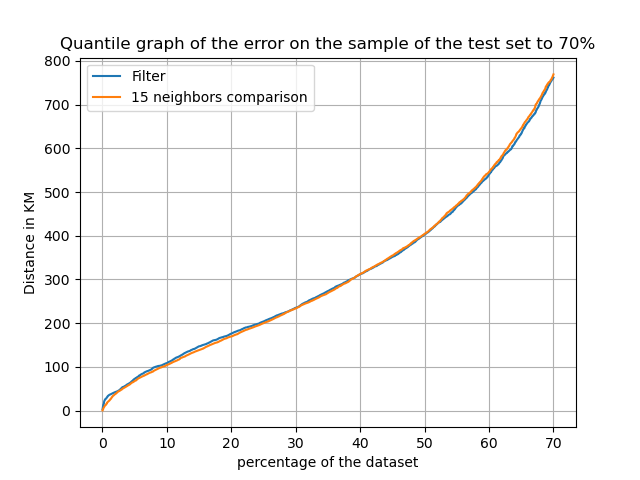
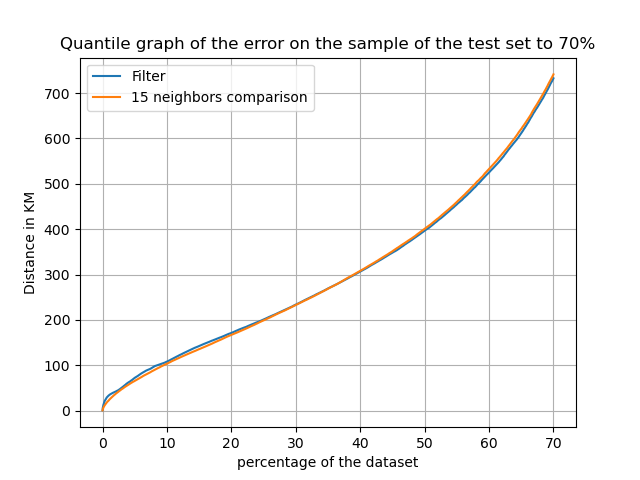
run test on pipeline

Changed region(s): [[0.0625, 0.1562, 0.9062, 0.875], [0.0625, 0.1875, 0.125, 0.25], [0.0625, 0.0938, 0.125, 0.1562]]

diff --git a/Pipeline.py b/Pipeline.py
@@ -4,6 +4,7 @@ from PIL.Image import Image
 from lightly.transforms import MoCoV2Transform
 from torch import nn
 from torchvision.transforms import transforms
+from torchvision.transforms import ToPILImage
 
 from feature_extraction.feature_extractor import FeatureExtractor
 from filter_refinement.Probabilities_refinement.model.RefinementModel import RefinementModel, refine_probability_list
@@ -19,7 +20,7 @@ class Atlas:
         self.embedder = Embedder(net)
         self.embedder.load_csv(moco_model_weights)
         self.refiner = RefinementModel()
-        self.refiner.load(torch.load(refinements_model_weights))
+        self.refiner.load_state_dict(torch.load(refinements_model_weights))
         self.moco_transform = torchvision.transforms.Compose([transforms.Resize((224, 224)),
                                                               MoCoV2Transform(input_size=224, cj_prob=0.2,
                                                                               cj_bright=0.1, cj_contrast=0.1,
@@ -38,4 +39,19 @@ class Atlas:
         images = [self.moco_transform(Image.open(image_path)) for image_path in images_path]
         queries = [self.embedder(img) for img in images]
         final_predictions = [utils.predict_location(q, co[0], co[1], self.baseset, K=self.k) for q, co in zip(queries, predictions)]
+        return final_predictions
+
+    def predict_from_images(self, images):
+        with torch.no_grad():
+            images = [ToPILImage()(image) for image in images]
+            vectors = self.extractor.extract_features_from_images(images)
+            vectors = torch.tensor(vectors)
+            refined_vectors = refine_probability_list(self.refiner, vectors)
+            filtered_vectors = [utils.cluster_filter(utils.distances_matrix, vec) for vec in refined_vectors]
+            predictions = [(utils.expected_val(f_vec, lat=True), utils.expected_val(f_vec, lat=False)) for f_vec in
+                           filtered_vectors]
+
+            queries = [self.embedder(self.moco_transform(img)[0].unsqueeze(0)) for img in images]
+            final_predictions = [utils.predict_location(q, co[0], co[1], self.baseset, K=self.k) for q, co in
+                                 zip(queries, predictions)]
         return final_predictions

diff --git a/run_testset.py b/run_testset.py
@@ -1,0 +1,51 @@
+import pandas as pd
+import torch
+from torch.utils.data import random_split, DataLoader
+from tqdm import tqdm
+
+from Pipeline import Atlas
+from moco import utils
+from moco.test_custom_dataset import CustomImageDataset
+from torchvision.transforms import transforms
+
+transform = transforms.Compose([
+    transforms.ToTensor()
+])
+
+city_dataset_path = './Images'
+city_csv_file_path = './city_images_dataset.csv'
+big_dataset_path = './big_dataset'
+big_csv_file_path = './big_dataset_labeled.csv'
+dataset = CustomImageDataset(city_csv_file_path, city_dataset_path, big_csv_file_path, big_dataset_path, transform,
+                             True)
+generator = torch.Generator()
+generator.manual_seed(387642706252)
+
+train_size = int(0.6 * len(dataset))
+val_size = int(0.2 * len(dataset))
+test_size = len(dataset) - train_size - val_size
+
+train_dataset, val_dataset, test_dataset = random_split(dataset, [train_size, val_size, test_size],
+                                                        generator=generator)
+test_dataset, _ = random_split(test_dataset, [test_size // 2, test_size // 2],
+                               generator=generator)
+batch_size = 4
+
+test_loader = DataLoader(test_dataset, batch_size=batch_size,
+                         shuffle=False)
+
+pipeline = Atlas("reg.pth", 'lang.pth', 'moco.pth', 'refine.pth', 15, 'baseset.csv')
+
+errors = []
+count = 0
+for images, labels, lats, lngs, idxs in tqdm(test_loader):
+    predictions = pipeline.predict_from_images(images)
+    e = [utils.haversine(float(lat), float(lng), pred[0], pred[1]) for lat, lng, pred in zip(lats, lngs, predictions)]
+    errors += e
+    print(errors)
+    if count == 2:
+        exit(0)
+    count += 1
+
+df_errors = pd.DataFrame(errors)
+df_errors.to_csv('test_errors.csv', index=False)

diff --git a/feature_extraction/feature_extractor.py b/feature_extraction/feature_extractor.py
@@ -8,6 +8,14 @@ class FeatureExtractor:
     def __init__(self, region_model_weights_path, language_model_weights_path):
         self.region_model_path = region_model_weights_path
         self.language_model_path = language_model_weights_path
+        transform = transforms.Compose([
+            transforms.Resize((256, 256)),
+            transforms.ToTensor(),
+            transforms.Normalize([0.485, 0.456, 0.406], [0.229, 0.224, 0.225])
+        ])
+
+        self.region_classifier = Classifier(self.region_model_path, transform)
+        self.lang_model = LanguageModel(self.language_model_path, transform)
 
     def extract_features(self, images_path_list):
         """
@@ -32,5 +40,20 @@ class FeatureExtractor:
         lang_probabilities = lang_model.list_detect_language(images_to_predict)
 
         combine_probs = [(reg_prob + lang_prob) for reg_prob, lang_prob in zip(regions_probabilities, lang_probabilities)]
+
+        return combine_probs
+
+    def extract_features_from_images(self, images):
+        """
+        Extract features from images
+        :param images: PIL images
+        :return: list of extracted probabilities for each image.
+        """
+
+        regions_probabilities = self.region_classifier.predict_list_images(images)
+        lang_probabilities = self.lang_model.list_detect_language(images)
+
+        combine_probs = [(reg_prob + lang_prob) for reg_prob, lang_prob in
+                         zip(regions_probabilities, lang_probabilities)]
 
         return combine_probs

diff --git a/moco/compare_nn.py b/moco/compare_nn.py
@@ -1,4 +1,5 @@
 import numpy as np
+import pandas as pd
 import torch
 import torchvision
 from lightly.transforms import MoCoV2Transform
@@ -19,7 +20,7 @@ test_mode = True
 validation_df = utils.read_vector_csv(validation, 'prob_vector')
 validation_df = validation_df.sample(frac=0.1, replace=False, random_state=42)
 test_df = utils.read_vector_csv(test, 'prob_vector')
-test_df = test_df.sample(frac=0.05, replace=False, random_state=42) # TODO: raise to 0.5
+test_df = test_df.sample(frac=0.5, replace=False, random_state=42)
 city_dataset_path = './Images'
 city_csv_file_path = './city_images_dataset.csv'
 big_dataset_path = './big_dataset'
@@ -125,6 +126,7 @@ if __name__ == '__main__':
                       'Filter', max_perc=70)
         utils.Q_graph(n_errors[15], 'percentage of the dataset', 'Distance in KM', 'Quantile graph of the error on the sample of the test set to 70%',
                       f'{15} neighbors comparison', max_perc=70)
-        test_df['error'] = n_errors[15]
-        test_df['cluster error'] = filtered_errors
-        test_df.to_csv("test_output.csv", index=False)
+        df_errors = pd.DataFrame(n_errors[15])
+        df_errors.to_csv('n_errors.csv', index=False)
+        f_errors = pd.DataFrame(filtered_errors)
+        f_errors.to_csv('cluster.csv', index=False)

diff --git a/filter_refinement/Probabilities_refinement/model_testing/test_refinement_model.py b/filter_refinement/Probabilities_refinement/model_testing/test_refinement_model.py
@@ -37,7 +37,7 @@ if __name__ == "__main__":
     test_loader = DataLoader(test_dataset, batch_size=32,
                               shuffle=True, num_workers=2, pin_memory=True)
 
-    model_dict_path = './32_0.0001_refinement.pth'
+    model_dict_path = './refine.pth'
 
     model = RefinementModel()
     model.load_state_dict(torch.load(model_dict_path))

diff --git a/moco/utils.py b/moco/utils.py
@@ -18,7 +18,7 @@ clusters_df['cluster_center'] = clusters_df['cluster_center'].apply(
 
 cluster_centers = np.radians(clusters_df['cluster_center'].to_list())
 distances_matrix = haversine_distances(cluster_centers) * 6371
-MAX_COMP_DISTANCE = 500
+MAX_COMP_DISTANCE = 250
 
 
 def expected_val(prob_vector, lat):
